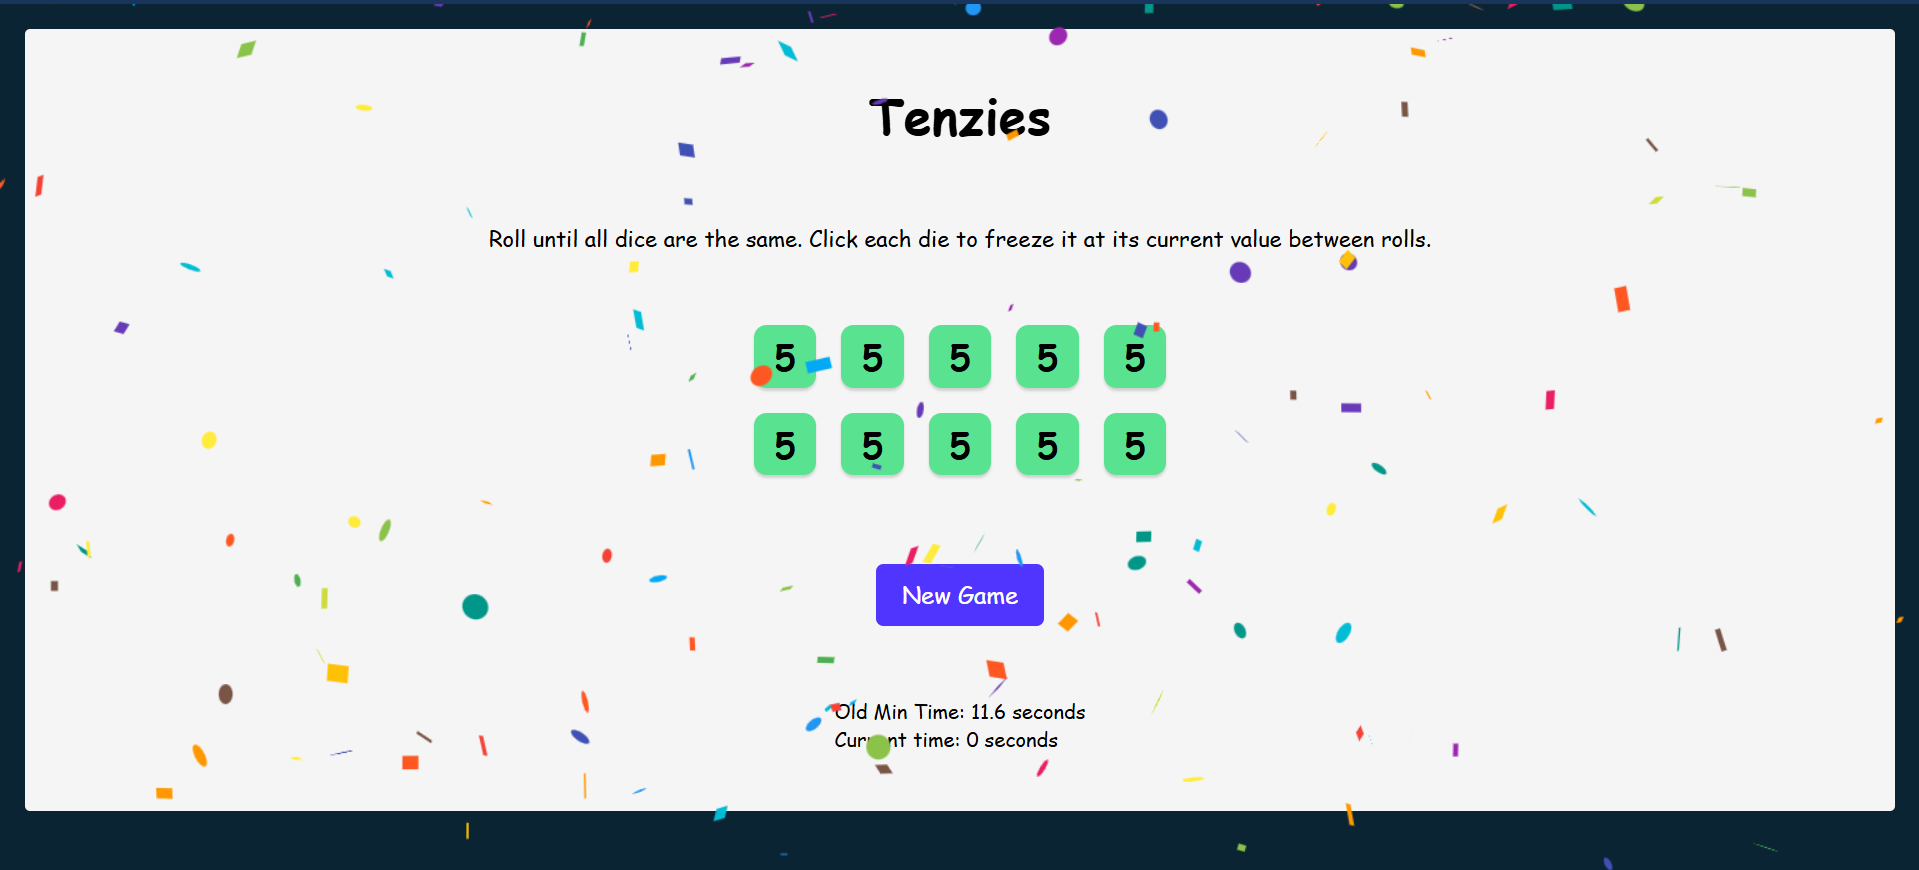
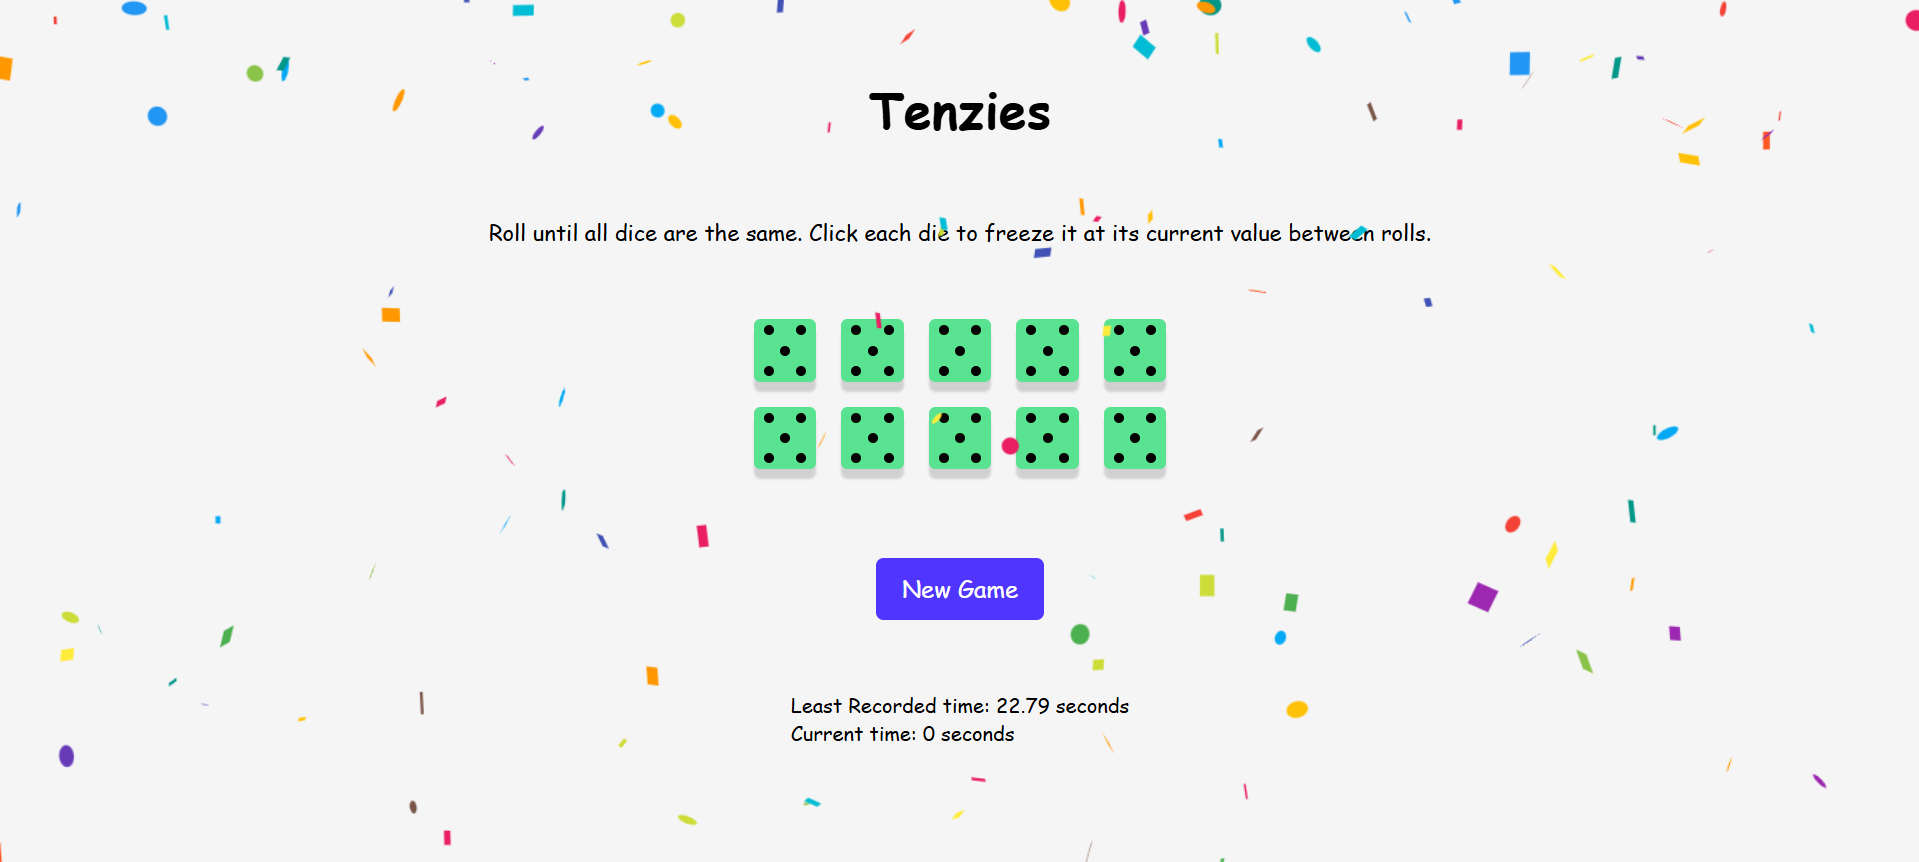
Redesigned dice with dot markings and applied UI changes

diff --git a/src/Die.jsx b/src/Die.jsx
@@ -1,11 +1,53 @@
-function Die(props){
+function Die(props) {
     const styles = {
-        backgroundColor: props.clicked ? "#59E391" : "white"
+        backgroundColor: props.clicked ? "#59E391" : "white",
+        width: '50px',
+        height: '50px',
+        borderRadius: '5px',
+        display: 'grid',
+        gridTemplateColumns: 'repeat(3, 1fr)',
+        gridTemplateRows: 'repeat(3, 1fr)',
+        justifyItems: 'center',
+        alignItems: 'center',
+        fontSize: '10px',
+        // border: '1px solid black',
+        gap: '1px',
+    };
+    
+    const transparent = 'rgba(255,255,255,0.0)' // Can you belive it! this makes the dot Transparent
+
+    // Function to generate the dots for each dice value with its color
+    const renderDots = (value) => {
+        const dotPatterns = {
+            1: [transparent,transparent,transparent,transparent,'black',transparent,transparent,transparent,transparent],
+            2: ['black',transparent,transparent,transparent,transparent,transparent,transparent,transparent,'black'],
+            3: ['black',transparent,transparent,transparent,'black',transparent,transparent,transparent,'black'],
+            4: ['black',transparent,'black',transparent,transparent,transparent,'black',transparent,'black'],
+            5: ['black',transparent,'black',transparent,'black',transparent,'black',transparent,'black'],
+            6: ['black',transparent,'black','black',transparent,'black','black',transparent,'black']
+        };
+        
+        return dotPatterns[value] || [];
     };
 
     return (
-        <button style={styles} onClick={props.clickfn}>{props.value}</button>
-    )
+        <button style={styles} onClick={props.clickfn}>
+            {renderDots(props.value).map((dot, index) => (
+                <div
+                    key={index}
+                    style={{
+                        width: '8px',
+                        height: '8px',
+                        backgroundColor: dot,
+                        borderRadius: '70%',
+                        // marginTop: '2x',
+                        marginBottom: '0px',  // Adjust for spacing
+                        // marginTop: index === 0 ? 0 : '0px',  // Adjust for positioning
+                    }}
+                />
+            ))}
+        </button>
+    );
 }
 
 export default Die;

diff --git a/src/index.css b/src/index.css
@@ -1,6 +1,6 @@
 body {
   font-family: cursive, sans-serif;
-  background-color: #0B2434;
+  background-color: #F5F5F5;
   margin: 0;
   padding: 20px;
   display: flex;
@@ -53,7 +53,7 @@ button {
 .diceContainer button {
   height: 50px;
   width: 50px;
-  box-shadow: 0px 2px 2px rgba(0, 0, 0, 0.15);
+  box-shadow: 0px 8px 2px rgba(0, 0, 0, 0.15);
   border-radius: 10px;
   border: none;
   background-color: white;

diff --git a/src/App.jsx b/src/App.jsx
@@ -91,7 +91,7 @@ function App() {
               {diceComponents}
         </div>
         <button onClick = {rollDice} id = "rollDice">{gameWon ? "New Game" : "Roll"}</button>
-        <p>Old Min Time: {minTime/1000} seconds <br/> Current time: {time/1000} seconds</p>
+        <p>Least Recorded time: {minTime/1000} seconds <br/> Current time: {time/1000} seconds</p>
       </div>
     </>
   )

diff --git a/README.md b/README.md
@@ -1,15 +1,15 @@
-# Tenzies Game
+# Tenzies Game 🎲
 
 ## Overview
-Tenzies is a fun and interactive dice game where the objective is to roll the dice until all of them show the same number. This project is built using React and JavaScript to create a smooth and engaging user experience.
+Tenzies is a fun and interactive dice game 🎯 where the objective is to roll the dice until all of them show the same number. This project is built using React ⚛ and JavaScript to create a smooth and engaging user experience.
 
-## Features
-- **Multiple Dice Rolls:** Players can roll the dice as many times as they need to match all dice to the same number.
-- **Freeze Dice:** Players can "freeze" dice that match their desired number to avoid re-rolling them.
-- **Game Timer:** Track how quickly you can match all dice!
-- **Responsive Design:** Play on any device with a clean, mobile-friendly interface.
+## Features ✨
+- **Multiple Dice Rolls 🎲:** Players can roll the dice as many times as they need to match all dice to the same number.
+- **Freeze Dice 🧊:** Players can "freeze" dice that match their desired number to avoid re-rolling them.
+- **Game Timer ⏱:** Track how quickly you can match all dice!
+- **Responsive Design 📱💻:** Play on any device with a clean, mobile-friendly interface.
 
-## Installation
+## Installation 💻
 To install and run this project locally, follow these steps:
 
 1. Clone the repository:
@@ -25,18 +25,18 @@ To install and run this project locally, follow these steps:
     npm install
     ```
 
-## Running the Game
+## Running the Game 🕹
 To start the development server and play the game locally, run:
 ```bash
 npm run dev
 ```
 Open your browser and navigate to `http://localhost:5173` to see the game in action. This is the default port for Vite.
 
-## Game Screenshot
+## Game Screenshot 📸
 Here’s what the game looks like after a victory:
 ![Game Win Screenshot](Screenshot/GameWon.png "Game Won")
 
-## Contributing
+## Contributing 🤝
 Contributions are welcome! Please follow these steps to contribute:
 
 1. Fork the repository.
@@ -45,5 +45,5 @@ Contributions are welcome! Please follow these steps to contribute:
 4. Push to the branch (`git push origin feature/YourFeature`).
 5. Open a pull request.
 
-## License
+## License 📜
 This project is licensed under the MIT License. See the [LICENSE](LICENSE) file for details.
